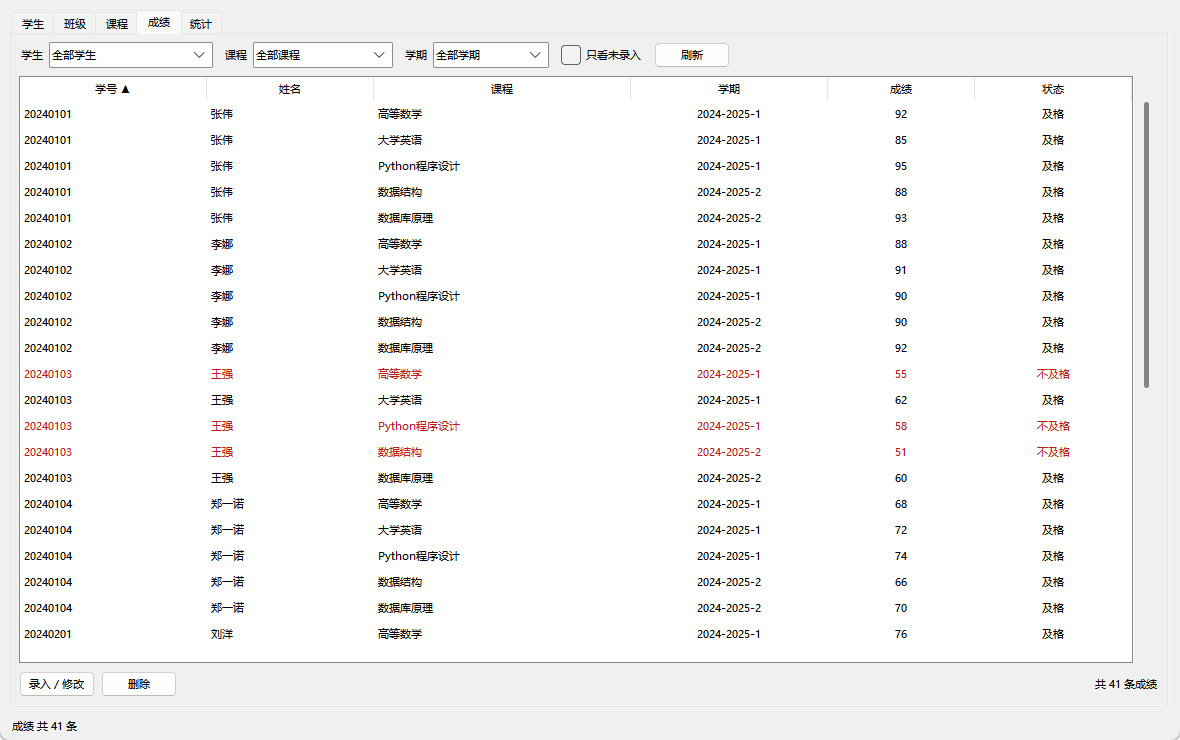
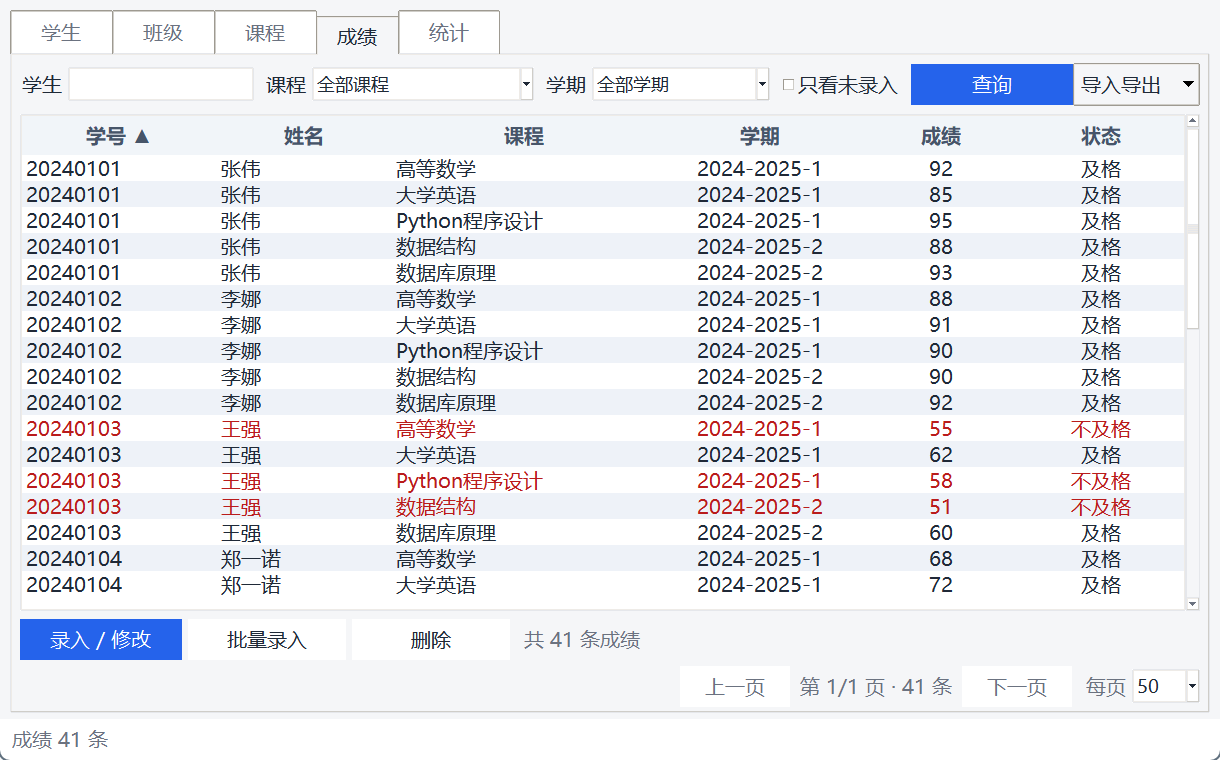
docs: README 与数据库文档同步索引、分页与主题

diff --git a/README.md b/README.md
@@ -3,28 +3,38 @@
 《挑战课题—Python 编程》课题 II：**数据库编程 —— 基于 Python 的管理信息系统设计**。
 
 选题《学生管理系统》：Python 标准库 `sqlite3` + Tkinter，零第三方依赖，一个命令即可建库运行。
+支持万行级数据的分页浏览、批量录入、CSV 导入导出、浅色 / 深色主题。
 
 ![学生列表](docs/figures/gui-学生.png)
 
 ## 能做什么
 
 - **浏览 / 搜索 / 排序**：按学号、姓名、电话模糊搜索，按班级筛选，点表头排序
+- **分页**：每页 20 / 50 / 100 / 200 条可选，1 万学生下单页查询 1–3 ms
 - **增删改**：学生、班级、课程、成绩四类数据都能在界面上增删改
-- **成绩录入**：按「学生 + 课程 + 学期」录入，可先占位（未录入 / NULL）后补分
+- **成绩录入**：按「学号 + 课程号 + 学期」单条录入，留空表示「未录入」
+- **批量录入**：选「班级 + 课程 + 学期」，一张表里一次填完整班成绩
+- **CSV 导入导出**：学生名册、成绩明细都可导入导出，逐行报错不中断
+- **成绩单**：单个学生导出 CSV，或生成可打印 HTML（浏览器里 Ctrl+P）
 - **统计报表**：班级人数与平均分、每门课的均分/最高/最低/及格率、加权平均分排行
-- **数据导出**：学生名册与成绩明细导出 CSV（`--what students|scores`）
+- **深色模式**：菜单「视图 → 深色主题」，偏好记在 `data/ui.json`
 - **两种界面**：Tkinter 图形界面（默认）与命令行界面，共用同一套业务层
 
 | 页签 | 说明 |
 | ---- | ---- |
-| 学生 | 搜索、班级筛选、排序、成绩单 |
+| 学生 | 搜索、班级筛选、排序、分页、成绩单、CSV 导入导出 |
 | 班级 | 班级增删改，显示每班人数 |
 | 课程 | 课程增删改，显示成绩条数 |
-| 成绩 | 按学生 / 课程 / 学期筛选，只看未录入 |
+| 成绩 | 按学生 / 课程 / 学期筛选，只看未录入，批量录入 |
 | 统计 | 班级概览、课程统计、加权排行 |
 
 ![成绩](docs/figures/gui-成绩.png)
 ![统计](docs/figures/gui-统计.png)
+
+深色主题与批量录入：
+
+![深色主题](docs/figures/gui-深色.png)
+![批量录入](docs/figures/gui-批量录入.png)
 
 ## 快速开始
 
@@ -38,6 +48,7 @@ python main.py
 # 3) 命令行界面
 python main.py cli students list
 python main.py cli students list --keyword 王 --sort name
+python main.py cli students list --page 2 --size 4
 python main.py cli scores list --student-id 3
 python main.py cli stats courses
 ```
@@ -51,30 +62,40 @@ python main.py cli students add --sno 20260301 --name 林小满 --gender 女 --c
 python main.py cli students edit 11 --phone 13800000010
 python main.py cli students show 3                     # 成绩单
 python main.py cli students delete 11                  # 成绩级联删除
+python main.py cli students import --file 学生.csv      # 批量导入（列：学号,姓名,性别,班级,...）
+python main.py cli students transcript 3 --out 成绩单.html
 
 python main.py cli scores set --student-id 3 --course-id 1 --term 2024-2025-1 --score 65
 python main.py cli scores list --missing               # 只看未录入
+python main.py cli scores import --file 成绩.csv        # 列：学号,课程号,学期,成绩
 python main.py cli export --what scores --out scores.csv
 ```
+
+CSV 表头支持中文或英文字段名；图形界面里「导入导出 → 保存导入模板」可以生成一份照填即可的模板。
 
 ## 目录结构
 
 ```
 python-project2/
 ├─ main.py                 统一入口：init / GUI / CLI
-├─ config.json             数据库路径、窗口尺寸等运行参数
+├─ config.json             数据库路径、分页大小、窗口尺寸、主题
 ├─ db/
-│  ├─ schema.sql           4 张表 + 3 个视图 + 触发器 + 索引
+│  ├─ schema.sql           4 张表 + 3 个视图 + 触发器 + 5 个索引
 │  └─ seed.sql             示例数据（含 NULL、不及格、跨学期等边界样本）
-├─ common/                 配置加载、异常类型、终端表格
+├─ common/                 配置、异常、日志、分页计算、终端表格
 ├─ store/                  数据访问层：只写 SQL，不校验、不弹窗
-│  ├─ connection.py        连接、事务、建库
+│  ├─ connection.py        连接、事务、建库（每个连接都开外键）
 │  ├─ students.py / classes.py / courses.py / scores.py
-├─ service/                业务层：输入校验、异常翻译、统计口径
+├─ service/                业务层：校验、异常翻译、统计口径
+│  ├─ imports.py           CSV 导入（逐行报错）
+│  ├─ exports.py           名册/成绩/成绩单导出、可打印 HTML
+│  └─ reports.py           班级、课程、排行统计
 ├─ ui/
-│  ├─ tk_app.py            Tkinter 界面（五个页签 + 表单弹窗 + 成绩单）
+│  ├─ theme.py             浅色 / 深色两套 ttk 样式
+│  ├─ tk_app.py            五页签界面、分页器、表单弹窗、批量录入
 │  └─ cli_app.py           argparse 子命令 + 等宽表格输出
-├─ tests/                  64 个单元测试（标准库 unittest）
+├─ tools/benchmark.py      万行级基准：造数据、测分页、看执行计划
+├─ tests/                  105 个单元测试（标准库 unittest）
 └─ docs/                   数据库说明文档与界面截图
 ```
 
@@ -93,17 +114,39 @@ classes 1 ──< students 1 ──< scores >── 1 courses
 
 完整字段、约束、ER 图与查询示例见 [docs/课题2-数据库内容说明.md](docs/课题2-数据库内容说明.md)。
 
+## 性能：万行级实测
+
+```powershell
+python tools/benchmark.py --students 10000
+```
+
+本机（SQLite 3.53 / Python 3.12）实测：
+
+| 场景 | 中位耗时 |
+| ---- | -------- |
+| 学生第 1 页 / 第 10 页 | 1.5 ms / 1.3 ms |
+| 学生按班级筛选 | 1.7 ms |
+| 成绩第 1 页 | 11 ms |
+| 成绩按学期筛选 | 19 ms |
+| 课程聚合统计 | 12 ms |
+| 加权排行（全表） | 46 ms |
+
+分页查询全部走索引：`idx_students_class_name`、`idx_scores_term`、`idx_scores_course`，
+`EXPLAIN QUERY PLAN` 可在基准脚本输出里核对。`LIKE '%关键字%'` 无法走索引，属于预期内的全表扫描。
+
 ## 测试
 
 ```powershell
 python -m unittest discover -s tests -t .
 ```
 
-覆盖：建表与约束、外键级联、触发器、三个视图的统计口径、业务层校验与异常翻译、命令行输出、图形界面冒烟（无图形环境时自动跳过）。
+105 个用例：建表与约束、外键级联、触发器、三个视图的统计口径、分页边界、CSV 导入逐行报错、
+成绩单导出、批量录入、命令行输出、图形界面冒烟（无图形环境自动跳过）。
 
 ## 约定
 
 - **不引入第三方依赖**，全部使用标准库；换机器即可运行。
-- 数据库文件、日志、测试临时目录已在 `.gitignore` 中忽略；`data/student.db` 由 `init` 生成。
+- 数据库、日志、测试临时目录已在 `.gitignore` 中忽略；`data/student.db` 由 `init` 生成。
+- 运行日志写到 `logs/app.log`（1 MB × 3 轮转），出错时同时打一份到控制台。
 - 提交信息用 `<类型>: <中文说明>`，类型取 `feat`、`fix`、`docs`、`test`、`chore`。
 - 提交前 `python -m unittest discover -s tests -t .` 必须通过。
